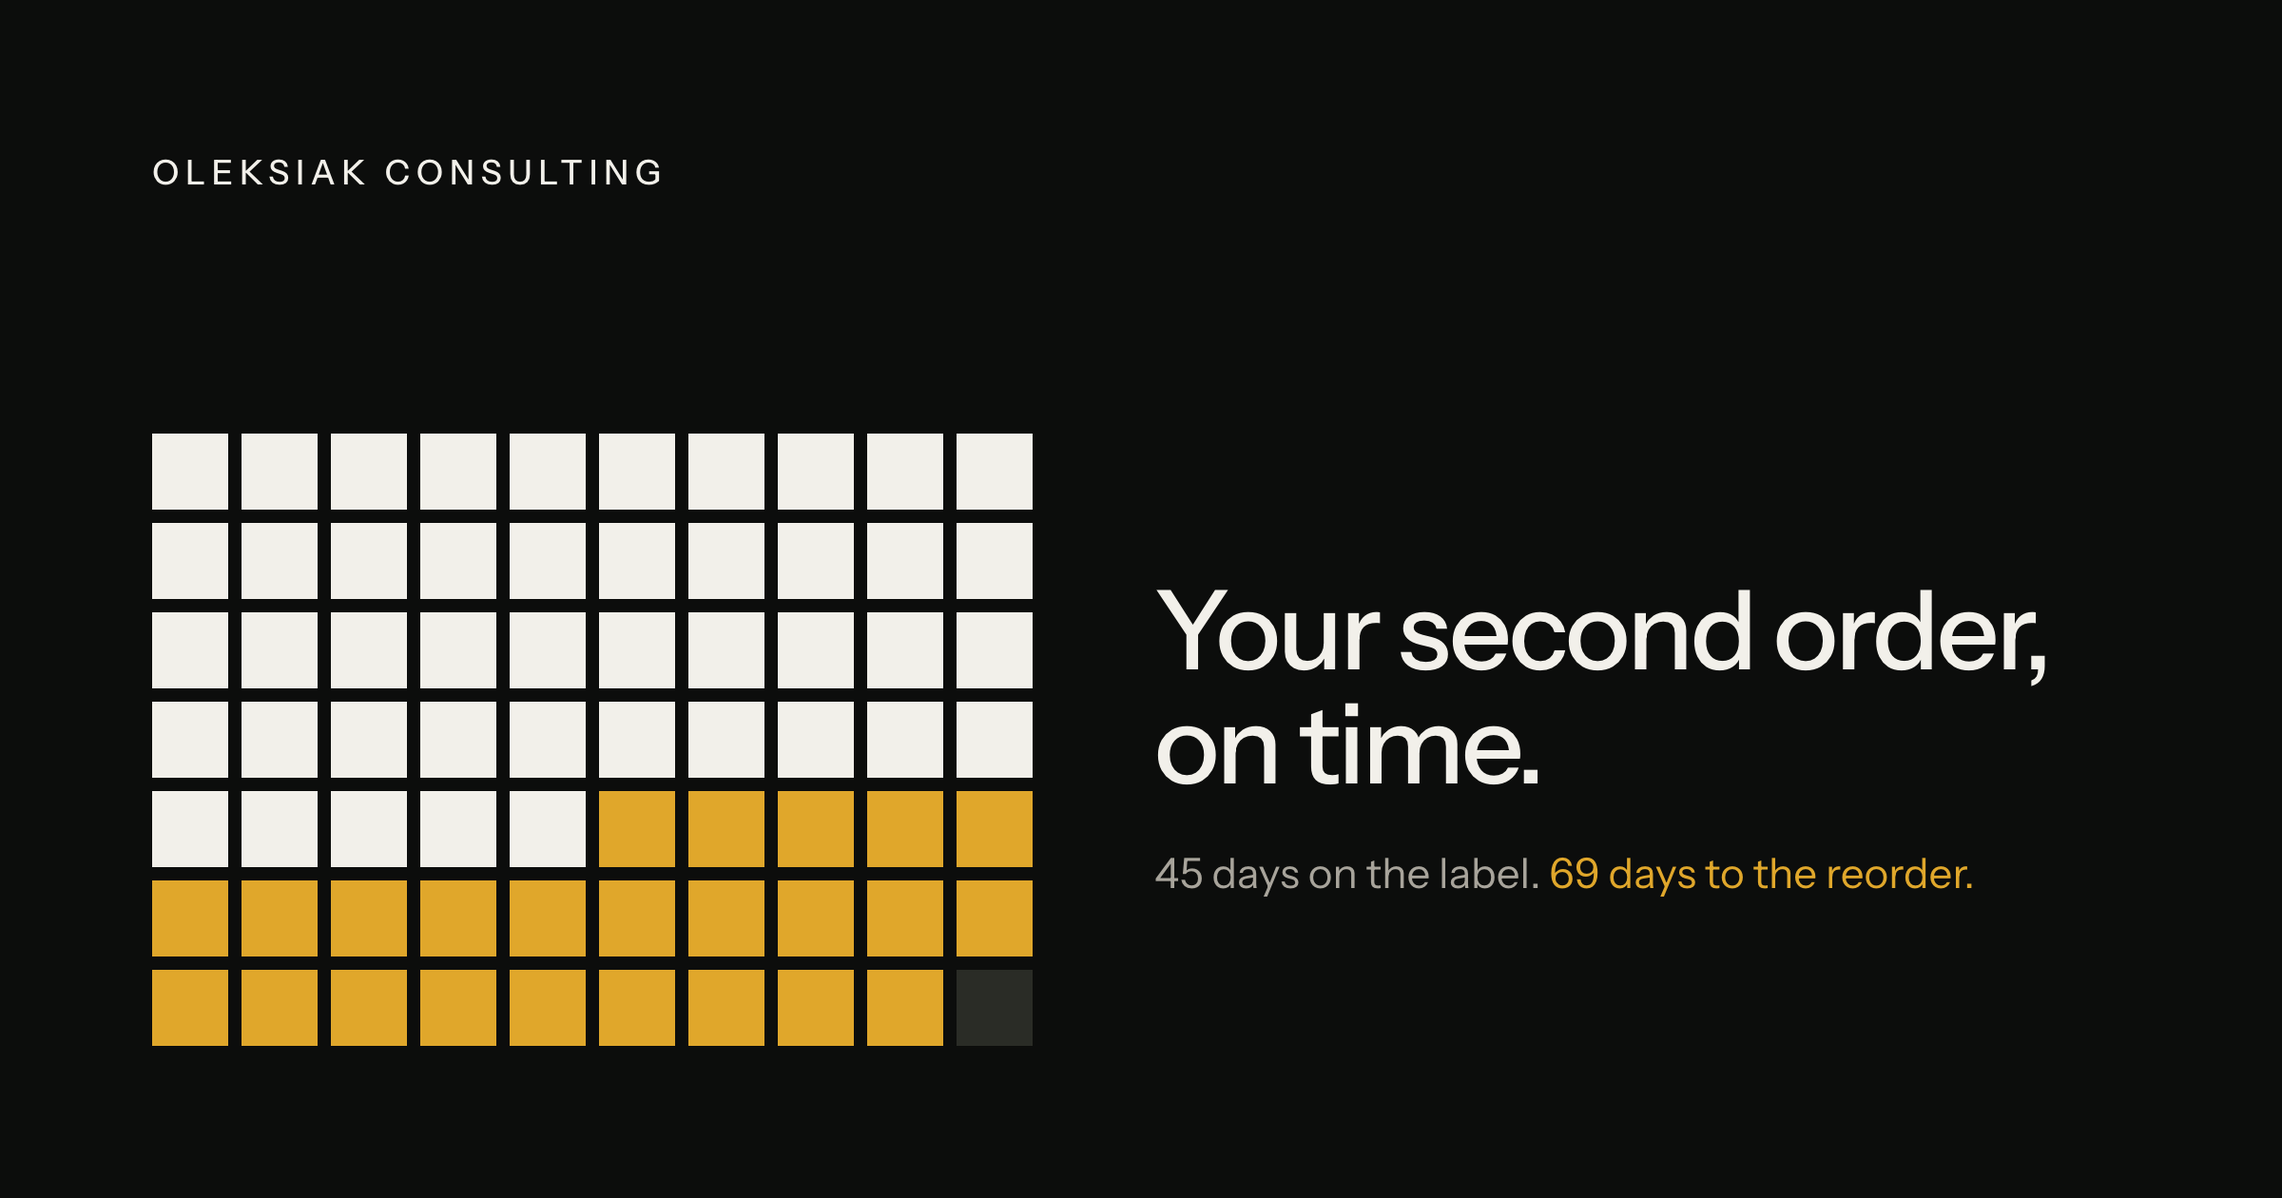
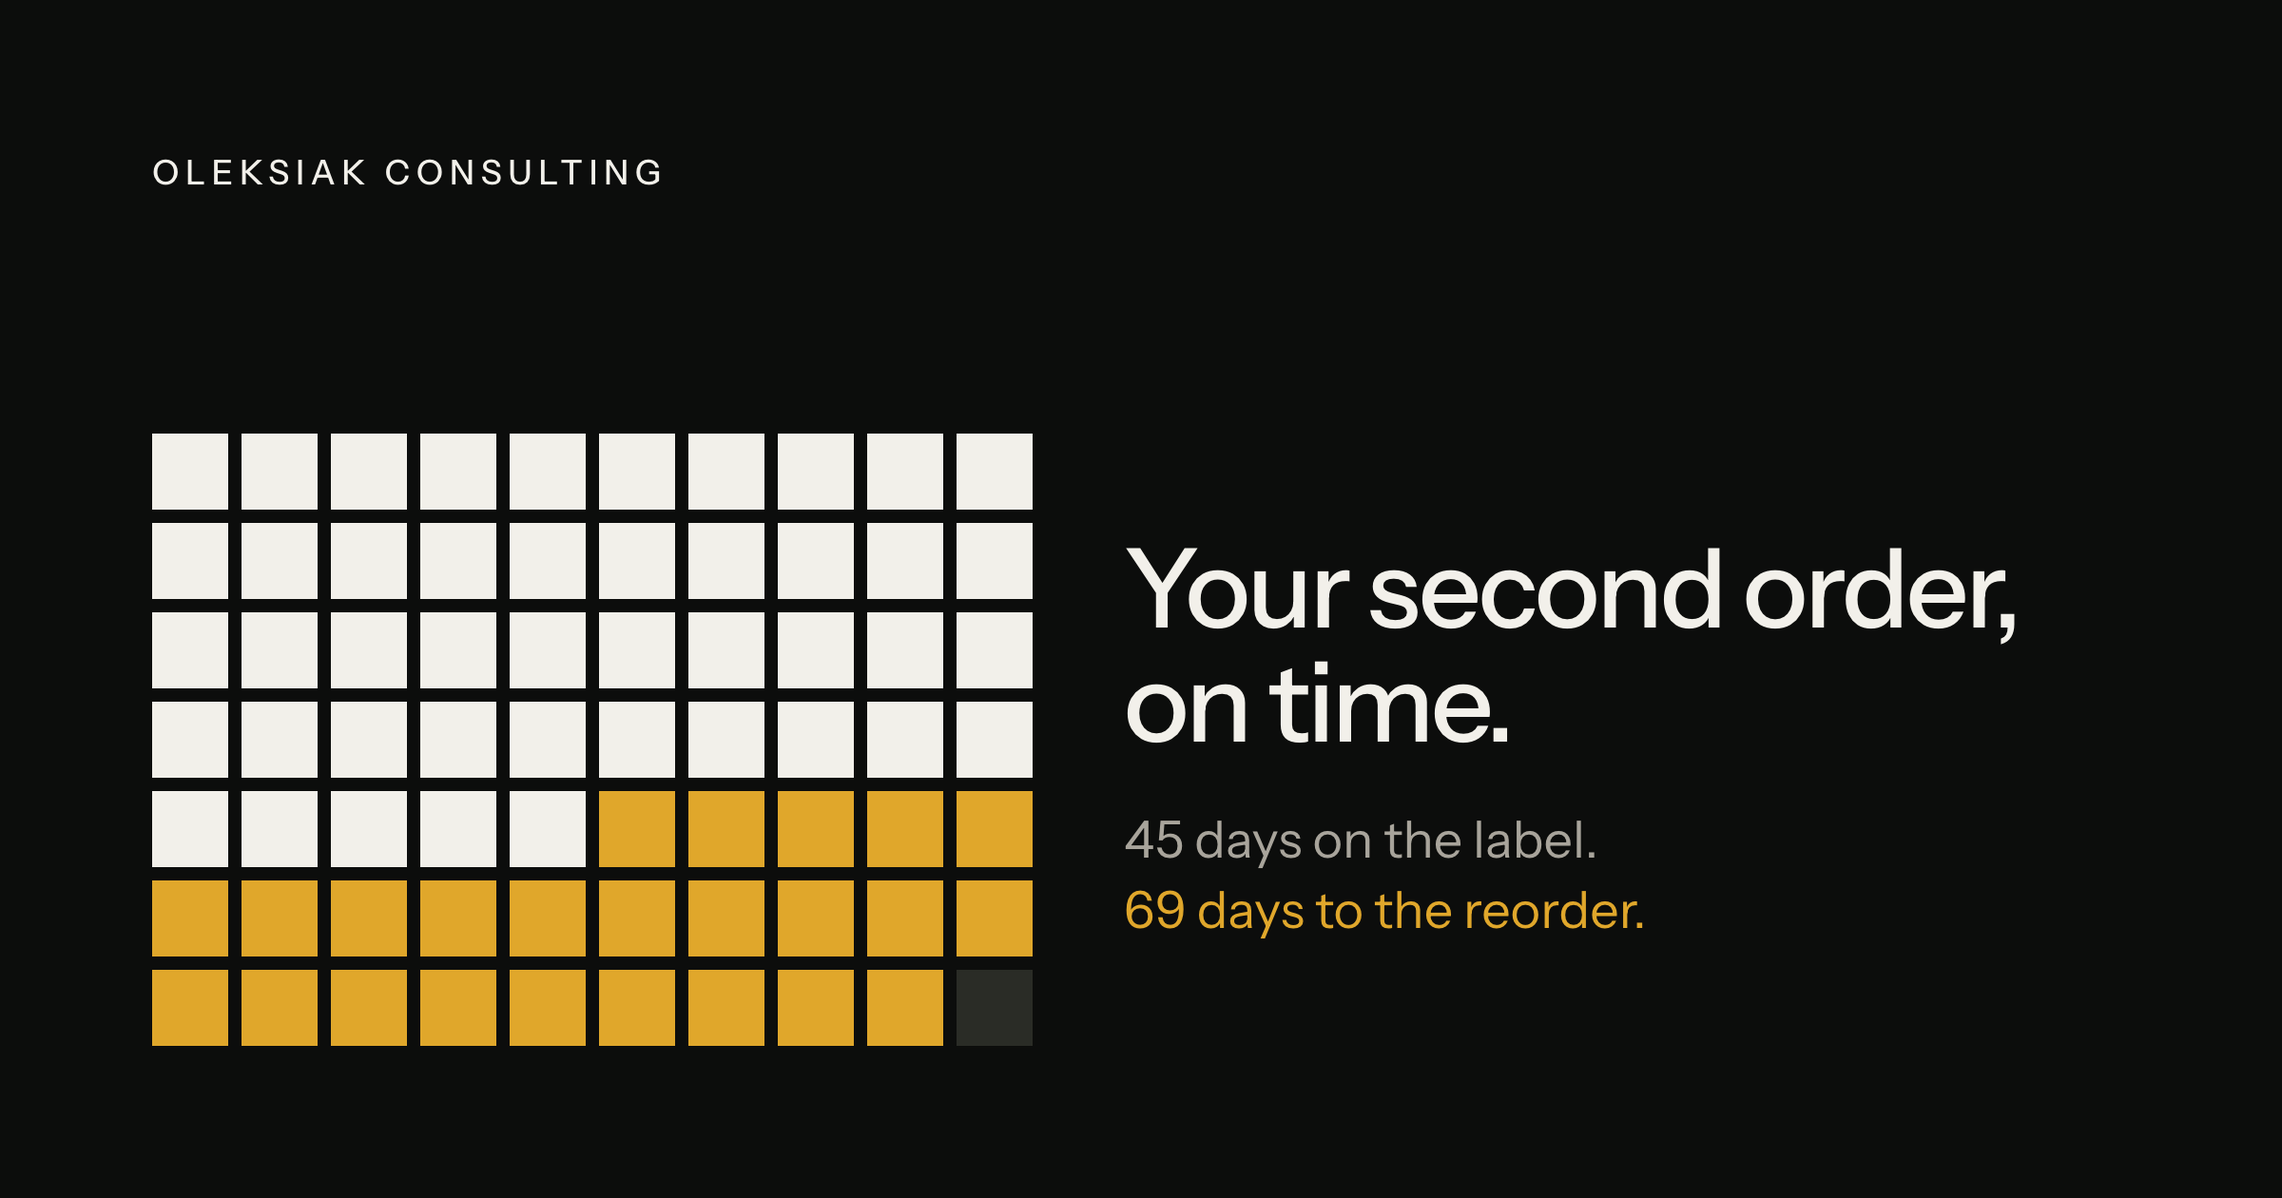
feat: cicha linia na karcie czytelna w feedzie, design system o siatke i bursztyn
Karta podgladu
  Cicha linia "45 days on the label. 69 days to the reorder." urosla z 22 do 27 px.
  Powod jest zmierzony: karta w feedzie na telefonie ma 552 px szerokosci, czyli
  skale 0,46 — przy 22 px tekst schodzil do 10,1 px i byl na granicy czytelnosci.
  Teraz ma 12,42 px.

  Miejsce wziete z odstepu miedzy siatka a tekstem (64 -> 48 px), nie z marginesow.
  Marginesy zewnetrzne stoja dokladnie na 80 px ze wszystkich czterech stron —
  zmierzone, nie zalozone — bo czesc klientow przycina krawedzie karty.

  Linia lamana recznie na granicy zdan. Przy 27 px zawijala sie sama i zostawiala
  "reorder." jako sierote w drugim wierszu; teraz kazdy wiersz jest calym zdaniem,
  a bursztynowa polowa dostaje wlasna linie i wiaze sie z bursztynem w kratce.

  Wymiary 2400x1260 bez zmian, waga 71,1 kB przy progu 1 MB.
  Po przeskalowaniu do 552 px: pola siatki rozdzielne, podzial jasne/bursztynowe
  czytelny, wygaszone pole w rogu widoczne, obie linie cichej latwe do przeczytania.

Design system
  foundations/colors.html: nowa regula bursztynu oraz regula "pelne pole to fakt,
  obrys to brak".
  foundations/layout.html: nowa karta — siatka, marginesy, telefonowa kolejnosc DOM.
  DESIGN-SYSTEM.md przyciety do briefu wdrozeniowego.
  Tresc kart zatwierdzona przez Rafala, przeniesiona bez zmian.

  Wypchniete do Claude Design (projekt "Oleksiak Consulting",
  107782f2-7c9d-4950-b48f-4ac5197ccc7f, PROJECT_TYPE_DESIGN_SYSTEM),
[…]

Changed region(s): [[0.4688, 0.4643, 0.9062, 0.65], [0.4688, 0.681, 0.875, 0.7738]]

diff --git a/design/design-system/foundations/colors.html b/design/design-system/foundations/colors.html
@@ -7,4 +7,19 @@
   <div><div style="height:96px;background:#16180F"></div><p style="font-size:14px;margin:10px 0 2px">Extinguished</p><p style="font-size:13px;opacity:.6;margin:0">#16180F</p></div>
   <div><div style="height:96px;background:#E0A72B"></div><p style="font-size:14px;margin:10px 0 2px">Amber</p><p style="font-size:13px;opacity:.6;margin:0">#E0A72B &middot; 9.6:1</p></div>
 </div>
-<p style="max-width:640px;font-size:15px;line-height:1.6;margin-top:28px">Amber means loss or exit, nothing else: the days a brand does not use, and the bar that leads out. Two amber things on one screen is a bug.</p>
+
+<div style="display:flex;gap:40px;margin-top:36px;flex-wrap:wrap">
+  <div style="max-width:430px">
+    <p style="font-size:15px;line-height:1.6;margin:0 0 14px"><strong>Amber marks the moment the game is played for</strong> &mdash; the days a brand does not use, the band where the category actually rebuys, and the bar that leads out. Nothing else: no decoration, no underlines, no second button. Two different amber things on one screen and one of them is a bug.</p>
+    <p style="font-size:15px;line-height:1.6;margin:0"><strong>Filled is fact, outline is absence.</strong> A day that happened is solid; an empty day &mdash; the fifty-one between the band and the founder's guess &mdash; is an outline only. That keeps the accent a signal even when the absence is large: flood fifty fields with amber and loss stops being a signal and becomes wallpaper.</p>
+  </div>
+  <div>
+    <div style="display:grid;grid-template-columns:repeat(10,26px);gap:4px">
+      <span style="height:26px;background:#F2F0EA"></span><span style="height:26px;background:#F2F0EA"></span><span style="height:26px;background:#F2F0EA"></span><span style="height:26px;background:#F2F0EA"></span><span style="height:26px;background:#F2F0EA"></span><span style="height:26px;background:#F2F0EA"></span><span style="height:26px;background:#F2F0EA"></span><span style="height:26px;background:#F2F0EA"></span><span style="height:26px;background:#F2F0EA"></span><span style="height:26px;background:#F2F0EA"></span>
+      <span style="height:26px;background:#F2F0EA"></span><span style="height:26px;background:#E0A72B"></span><span style="height:26px;background:#E0A72B"></span><span style="height:26px;background:#E0A72B"></span><span style="height:26px;background:#E0A72B"></span><span style="height:26px;background:#E0A72B"></span><span style="height:26px;background:#E0A72B"></span><span style="height:26px;background:#E0A72B"></span><span style="height:26px;background:#E0A72B"></span><span style="height:26px;background:#F2F0EA"></span>
+      <span style="height:26px;background:#F2F0EA"></span><span style="height:26px;background:#F2F0EA"></span><span style="height:26px;background:#F2F0EA"></span><span style="height:26px;background:#F2F0EA"></span><span style="height:26px;background:#F2F0EA"></span><span style="height:26px;border:1px solid #E0A72B"></span><span style="height:26px;border:1px solid #E0A72B"></span><span style="height:26px;border:1px solid #E0A72B"></span><span style="height:26px;border:1px solid #E0A72B"></span><span style="height:26px;border:1px solid #E0A72B"></span>
+      <span style="height:26px;border:1px solid #E0A72B"></span><span style="height:26px;border:1px solid #E0A72B"></span><span style="height:26px;border:1px solid #E0A72B"></span><span style="height:26px;border:1px solid #E0A72B"></span><span style="height:26px;border:1px solid #E0A72B"></span><span style="height:26px;border:1px solid #E0A72B"></span><span style="height:26px;border:1px solid #E0A72B"></span><span style="height:26px;border:1px solid #E0A72B"></span><span style="height:26px;border:1px solid #E0A72B"></span><span style="height:26px;border:1px solid #E0A72B"></span>
+    </div>
+    <p style="font-size:13px;opacity:.6;margin:14px 0 0">solid = fact &middot; outline = absence</p>
+  </div>
+</div>

diff --git a/design/og-card.html b/design/og-card.html
@@ -43,7 +43,11 @@
   .mark{font-size:18px;font-weight:500;letter-spacing:.18em;text-transform:uppercase;
     color:var(--fg);}
 
-  .body{display:flex;align-items:center;gap:64px;}
+  /* Odstep 48, nie 64: cicha linia urosla do 27 px, zeby po przeskalowaniu karty
+     do szerokosci feedu (552 px) miala ponad 12 px i dala sie przeczytac na telefonie.
+     Miejsce na to bierzemy z odstepu miedzy siatka a tekstem — marginesy zewnetrzne
+     stoja na 80 px i schodzic nizej nie moga, bo czesc klientow przycina krawedzie. */
+  .body{display:flex;align-items:center;gap:48px;}
 
   /* Siatka dni w stanie koncowym — 45 jasnych, 24 bursztynowe, ostatnie wygaszone.
      Ten sam podzial co na stronie, tylko wiekszy: to jest glowny obiekt karty. */
@@ -51,10 +55,13 @@
   .grid i{display:block;width:40px;height:40px;}
   .c1{background:var(--fg);} .c2{background:var(--acc);} .c3{background:var(--cellc);}
 
-  .say{display:flex;flex-direction:column;gap:22px;min-width:0;}
+  .say{flex:1;display:flex;flex-direction:column;gap:22px;min-width:0;}
   .claim{margin:0;font-size:58px;font-weight:500;line-height:1.04;letter-spacing:-.03em;
     color:var(--fg);}
-  .quiet{margin:0;font-size:22px;line-height:1.45;color:var(--dim);}
+  /* Lamanie recznie na granicy zdan. Przy 27 px w tej kolumnie tekst zawijal sie
+     sam i zostawial „reorder." jako sierote w drugim wierszu; tak kazdy wiersz
+     jest calym zdaniem, a bursztynowa polowa dostaje wlasna linie. */
+  .quiet{margin:0;font-size:27px;line-height:1.4;color:var(--dim);}
   .quiet b{font-weight:400;color:var(--acc);}
 </style>
 </head>
@@ -68,7 +75,7 @@
 
     <div class="say">
       <p class="claim">Your second order,<br>on time.</p>
-      <p class="quiet">45 days on the label. <b>69 days to the reorder.</b></p>
+      <p class="quiet">45 days on the label.<br><b>69 days to the reorder.</b></p>
     </div>
   </div>
 

diff --git a/design/design-system/foundations/layout.html b/design/design-system/foundations/layout.html
@@ -1,0 +1,8 @@
+<!-- @dsCard group="Spacing" -->
+<link rel="stylesheet" href="https://fonts.googleapis.com/css2?family=Instrument+Sans:wght@400;500;600&display=swap"><style>*{box-sizing:border-box}body{margin:0;background:#0C0D0C;color:#F2F0EA;font-family:"Instrument Sans",system-ui,sans-serif;padding:40px}h4{font-weight:600;font-size:13px;letter-spacing:.18em;text-transform:uppercase;opacity:.6;margin:0 0 18px}</style>
+<h4>Grid, order and the fold</h4>
+<div style="max-width:720px;font-size:16px;line-height:1.7">
+<p style="margin:0 0 18px">Eight-point grid. Outer margins 88 px on desktop. Two columns: the drawing on the left, the argument on the right. Every block stands on the same grid and the same margins &mdash; top bar, both columns, the position blocks, the exit bar.</p>
+<p style="margin:0 0 18px"><strong>DOM order is the phone order.</strong> Desktop composes two columns out of it with a named-areas grid &mdash; never the other way round. This came out of a measurement, not taste: with desktop order the amber exit bar landed below four service blocks, under the fold. After the change the CTA starts at 539 px against a 844 px fold in Safari on iOS.</p>
+<p style="margin:0">390 is a separate decision, not a squeezed desktop. Above the fold: the claim, the service line and the way out.</p>
+</div>

diff --git a/design/DESIGN-SYSTEM.md b/design/DESIGN-SYSTEM.md
@@ -1,85 +1,71 @@
-# Design system — Oleksiak Consulting
-Źródło: zatwierdzony wariant **9b Wersja interaktywna** z płótna „Homepage - 5 kierunków".
-Ten plik jest wiążący dla wszystkich kolejnych ekranów: `/tool`, `/stop`, blog, PDF, karty
-na LinkedIna. Wartości, których tu nie ma, odczytuj z pliku 9b — nie zgaduj.
+# Brief wdrożeniowy — Oleksiak Consulting
 
-## Kolor
+**Design system mieszka w Claude Design**, w projekcie „Oleksiak Consulting"
+(`107782f2-7c9d-4950-b48f-4ac5197ccc7f`), a jego źródłem są karty w `design/design-system/`.
+Kolory, typografia, ruch, siatka i komponenty są opisane tam i tylko tam — ten plik ich nie
+powtarza, żeby nie było dwóch źródeł prawdy.
 
-Tło `#0C0D0C`. Tekst główny `#F2F0EA` — kontrast 17,6:1. Pasmo wygaszone `#16180F`,
-używane wyłącznie do „dni, które nie istnieją" w rysunku. Akcent bursztynowy `#E0A72B` —
-9,6:1 na tle, jeden na cały ekran.
+Tutaj zostaje wyłącznie to, czego karta projektowa nie może powiedzieć: jak ten system wdrażać
+w tym repo.
 
-Reguła akcentu: bursztyn oznacza stratę albo wyjście i nic poza tym. Liczba dni, których
-marka nie wykorzystuje, oraz pas z CTA. Nie używamy go do dekoracji, podkreśleń ani
-drugiego przycisku. Jeżeli na ekranie są dwie rzeczy bursztynowe, jedna z nich jest błędem.
+## Fonty
 
-## Typografia
+Instrument Sans 400 / 500 / 600, licencja OFL, **hostowany lokalnie** — `@font-face`
+w `app/fonts.css`, pliki w `public/`, tak samo jak IBM Plex i Archivo. W wyrenderowanym HTML
+na wszystkich trasach ma być **zero wystąpień `fonts.googleapis`**; to zasada twarda po
+commicie 89c6326 i sprawdzana po każdym deployu. Karty w `design/design-system/` linkują
+Google Fonts, bo są podglądem wewnątrz Claude Design — to nie jest wzór dla produkcji.
 
-Instrument Sans, wagi 400 / 500 / 600, licencja OFL, **hostowana lokalnie** — zero żądań do
-Google Fonts w wyrenderowanym HTML, to twarda zasada repo po commicie 89c6326.
+## Gdzie ląduje kod
 
-Role: claim (największy element strony), linia usługi, nazwa bloku, opis, legenda, podpis
-techniczny. Dokładne stopnie i interlinia — z pliku 9b, z zachowaniem proporcji między
-rolami. Wersaliki z rozstrzeleniem tylko w pasku górnym i w podpisach technicznych.
+Strona główna jest przenoszona ze źródła: zmieniasz `design/production/index.html`, potem
+`npm run ship -- --yes`. Regiony między znacznikami `>>> ZE ZRODLA — GENEROWANE <<<` są
+nadpisywane przy każdym shipie — plików w `app/` nie edytuje się ręcznie. Narzędzie ma własne
+źródło `tool-index.html` i własny skrypt `node scripts/ship-tool.mjs tool-index.html --yes`,
+który musi pójść **przed** buildem.
 
-## Siatka i odstępy
+Zmienne koloru idą do bloku `:root` w `app/globals.css` przez ship. Skrypt strony to
+`app/audit-runtime.js` — plik `.js`, kopiowany bajt w bajt, celowo imperatywny, poza
+typecheckiem. Animacji nie przepisujemy na stan Reacta.
 
-Siatka ósemkowa. Marginesy zewnętrzne 88 px na desktopie. Dwie kolumny: rysunek po lewej,
-argumentacja po prawej. Wszystkie bloki stoją na tej samej siatce i tych samych marginesach —
-pasek górny, obie kolumny, blok usług i listwa wyjść.
+## Animacja — trzy warunki dokończenia
 
-Mobile 390 jest osobną decyzją, nie ściśniętym desktopem. Nad zgięciem (712 px w Safari iOS
-z domyślnym paskiem adresu) muszą zmieścić się: claim, linia usługi i wyjście.
+Każda animacja w tym systemie musi kończyć się poprawnie na trzy sposoby, bo każdy z nich
+realnie występuje:
 
-**Kolejność DOM jest telefonowa.** Desktop składa z niej dwie kolumny przez siatkę
-z nazwanymi obszarami — nigdy odwrotnie. Wynika to z pomiaru na wdrożeniu 9b: przy kolejności
-desktopowej bursztynowa listwa lądowała pod czterema usługami, czyli pod zgięciem. Po zmianie
-CTA zaczyna się na 539 px przy zgięciu 844 px.
+1. **Stan końcowy jest stanem domyślnym DOM-u.** Animujemy od pustego do domyślnego.
+2. **`prefers-reduced-motion`** przeskakuje od razu do stanu końcowego.
+3. **`navigator.webdriver`** kończy natychmiast — inaczej `qa.js` łapie ekran w połowie ruchu.
 
-## Komponenty
+Do tego bezpiecznik dla podglądu linku: jeżeli `IntersectionObserver` nie odpalił animacji
+w ciągu sekundy od załadowania, rysunek dopełnia się sam. Renderer karty na LinkedInie nie
+ustawia `webdriver`, a to jedyny kanał, z którego przychodzi ruch.
 
-**Siatka dni.** Siedemdziesiąt pól, dziesięć w rzędzie. Jasne = dni z etykiety, bursztynowe =
-dni straty, wygaszone = dzień odkupu. Mechanizm jest policzalny palcem — odbiorca nie musi
-ufać skali. To jest znak rozpoznawczy marki i wraca wszędzie, gdzie pokazujemy czas.
+## Dostępność i bramka
 
-**Blok pozycji.** Pięć jednakowych białych kropek, cienka kreska, nazwa, jedna linijka opisu.
-Kropki zapełniają się bursztynem po najechaniu; na telefonie raz, przy wejściu w kadr.
-Ten sam komponent obsługuje usługi i referencje — zmienia się tylko treść.
+Tekst główny minimum 12:1, pozostały 4,5:1, od 24 px 3:1 — liczone skryptem względem realnie
+namalowanego tła, nie oceniane na oko. Żaden pojemnik z tekstem nie ma sztywnej wysokości
+razem z `overflow:hidden`. Wszystko działa z klawiatury i z czytnikiem ekranu.
 
-**Listwa wyjść.** Bursztynowy pas przez całą szerokość: po lewej wezwanie ze strzałką,
-wyśrodkowane w pionie, klikalny cały pas, hover przesuwa strzałkę w prawo. Po prawej jedno
-pole e-mail z przyciskiem i jedną linijką obietnicy. Pod pasem wąski czarny pas z jednym
-zdaniem wyjaśniającym mechanizm. Żadnych ramek udających przycisk.
+```
+npm run ship -- --yes
+npm run build
+npx tsc --noEmit
+npm run lint                      # zero bledow, zasada zapadki
+node scripts/ship-compare.mjs
+node design/qa.js http://localhost:3000 --scroll
+node design/qa.js http://localhost:3000/stop --scroll
+node design/qa.js http://localhost:3000/tool --scroll
+```
 
-**Podpis pochodzenia.** Każda liczba na ekranie ma przy sobie informację, skąd pochodzi.
-Wzór: „Real orders: an anonymous supplements store, 1,197 first-to-second gaps, 4.8 years.
-Your numbers differ — that is what the calculator is for."
+`qa.js` puszczamy **lokalnie** — na produkcji wysyła formularz na każdym z dziewięciu
+viewportów. `qa.js` na `/tool` z ustawionym `ANTHROPIC_API_KEY`, inaczej panele AI chowają się
+i bramka sprawdza mniejszą stronę niż produkcja. Push nie wdraża; wdrożenie to
+`npx vercel@latest --prod`, a domenę sprawdzamy jednym przebiegiem, nie pętlą.
 
-## Ruch
+## Kontrakty, które muszą działać
 
-Animacja tylko wtedy, gdy niesie narrację. Kanon z 9b: jasne pola wchodzą co 0,05 s przez
-2,3 s, potem bursztynowe co 0,075 s, każde urasta do 155% i wraca, całość kończy się około
-4,6 s. Jeden przebieg, po wejściu w kadr przy progu 20%, bez pętli.
-
-Trzy warunki obowiązujące każdą animację w tym systemie: stan końcowy jest stanem domyślnym
-DOM-u; `prefers-reduced-motion` przeskakuje od razu do stanu końcowego; bramka `design/qa.js`
-nie może złapać ekranu w połowie ruchu.
-
-## Copy
-
-Angielski. Zdania krótkie, konkretne, bez przymiotników sprzedażowych. Claim mówi, co robimy,
-nie jak bardzo jesteśmy dobrzy. Dowód to rozpiętość, nigdy prestiż: ten sam rachunek
-w marketplace z milionami użytkowników i w firmie z jedenastoma osobami. Żadnego linku do
-kalendarza i żadnego „book a call" — oferta jest asynchroniczna z projektu.
-
-Zakazane: „unlocking growth", „Our Process" w czterech krokach, karuzela logotypów,
-niebieski jako kolor zaufania, monospace w tekście czytanym, kafle z obwódkami.
-
-## Dostępność i kontrola jakości
-
-Tekst główny minimum 12:1, pozostały 4,5:1, od 24 px 3:1 — liczone skryptem względem
-realnie namalowanego tła, nie oceniane na oko. Żaden pojemnik z tekstem nie ma sztywnej
-wysokości razem z `overflow:hidden`. Wszystko działa z klawiatury i z czytnikiem ekranu.
-
-Przed każdą publikacją: `node design/qa.js <url> --scroll` na dziewięciu szerokościach,
-lokalnie, nigdy na produkcji.
+Formularz w listwie wyjść idzie do `/api/lead` — adres plus opcjonalna jedna linia
+wiadomości, mail do właściciela i zapis w HubSpocie. Bursztynowe CTA linkuje do `/tool`.
+Narzędzie kończy się formularzem z osobnym checkboxem zgody na kontakt, domyślnie
+odznaczonym — to wymaga dołożenia pola zgody i źródła do kontraktu `/api/lead`.
